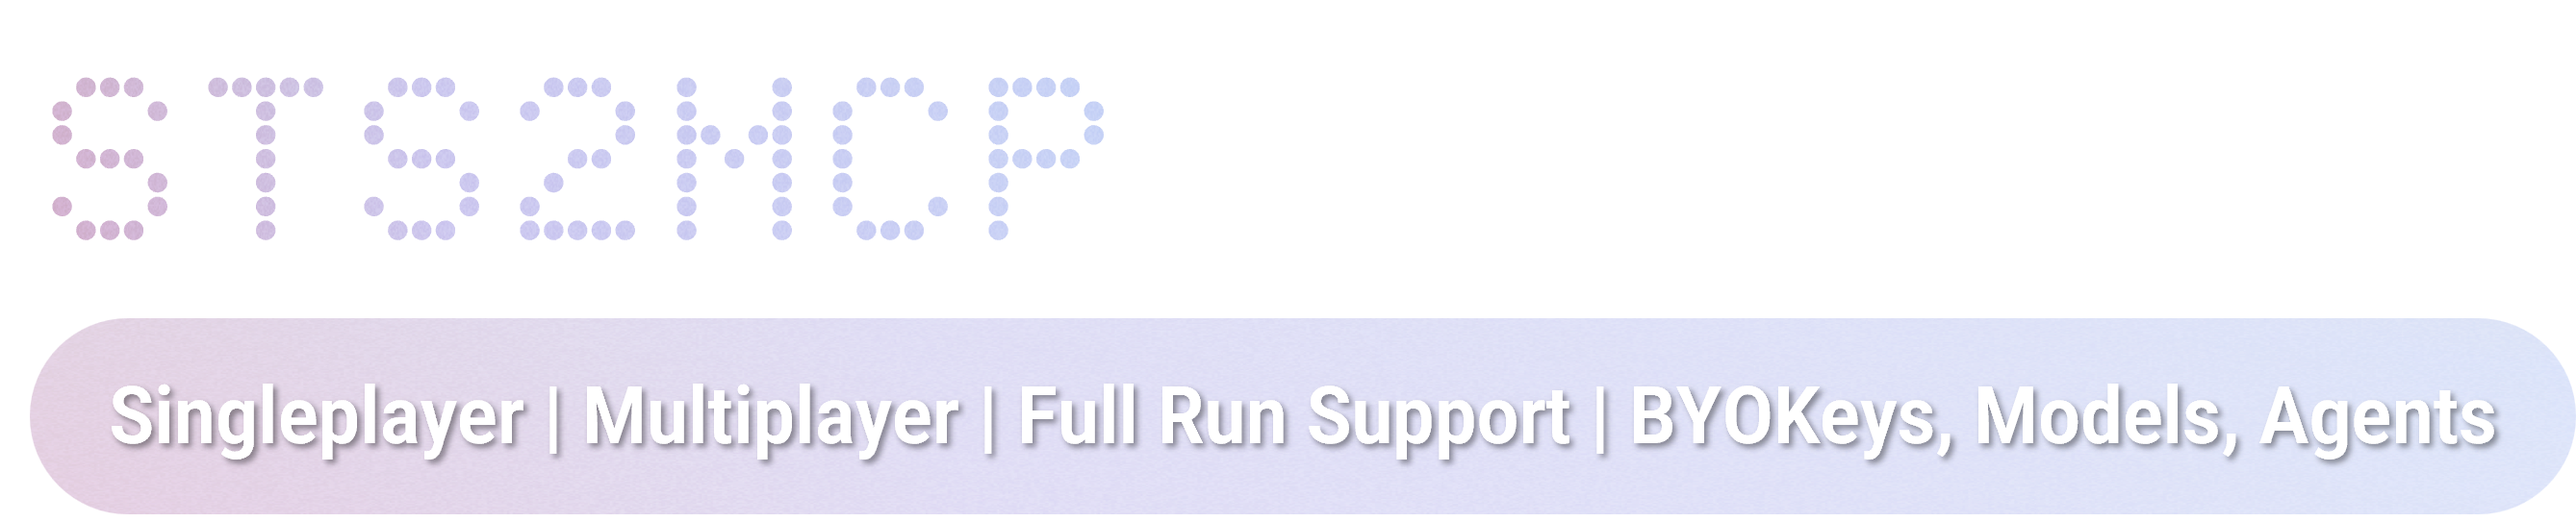
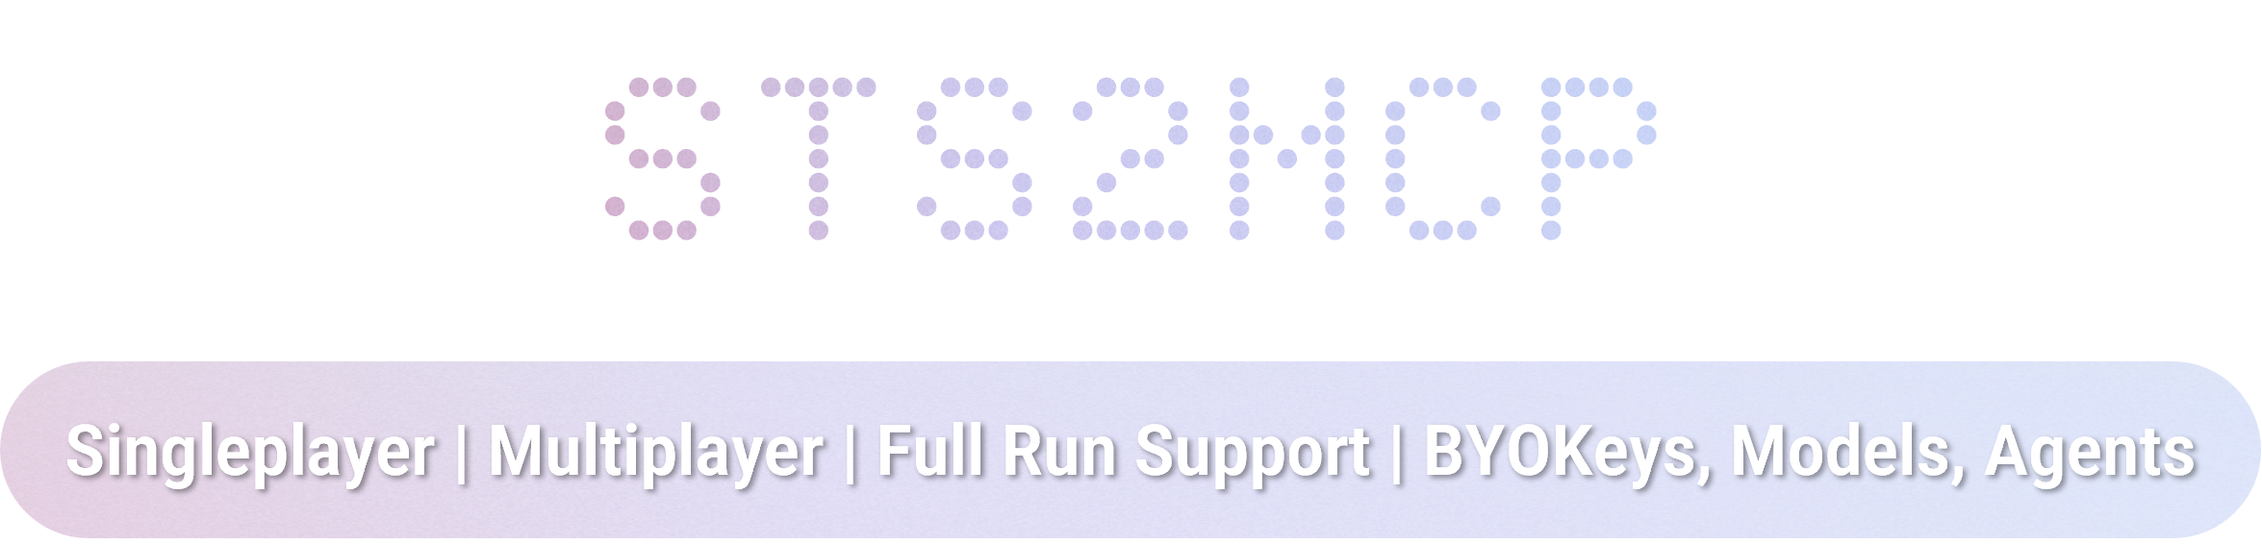
Update teaser image and README width

diff --git a/README.md b/README.md
@@ -1,5 +1,5 @@
 <p align="center">
-  <img src="docs/teaser.png" alt="STS2 MCP" />
+  <img src="docs/teaser.png" alt="STS2 MCP" width="90%" />
 </p>
 
 <p align="center"><em>An Experimental Research Project to Fully-Automate your Slay the Spire 2 Runs</em></p>
